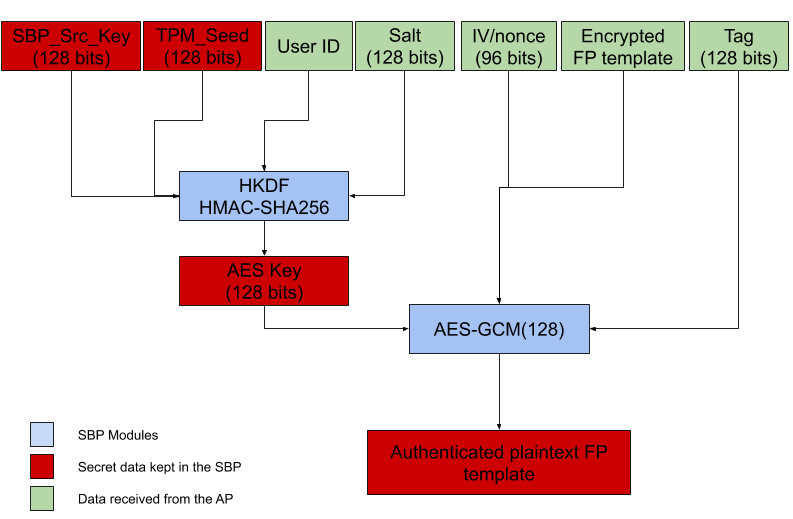
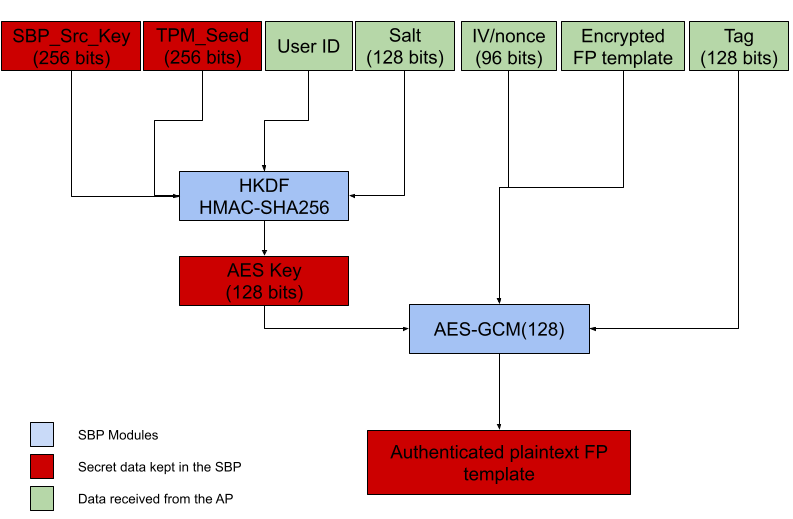
docs: Fix fingerprint encryption/decryption flowchart
TPM_Seed and SBP_Src_Key are 256-bit, not 128-bit.

BUG=b:328515138
TEST=view in gitiles

diff --git a/docs/fingerprint/fingerprint-authentication-design-doc.md b/docs/fingerprint/fingerprint-authentication-design-doc.md
@@ -191,7 +191,7 @@ tampered with by an attacker controlling the AP.
 
 ##### SBP secret generation
 
-The SBP generates a new 128-bit random number `SBP_Src_Key` every time the user
+The SBP generates a new 256-bit random number `SBP_Src_Key` every time the user
 goes through recovery or powerwashes the device. The [clobber-state] script
 sends a command to the SBP to make it immediately regenerate a new `SBP_Src_Key`
 immediately after requesting a TPM clear.
